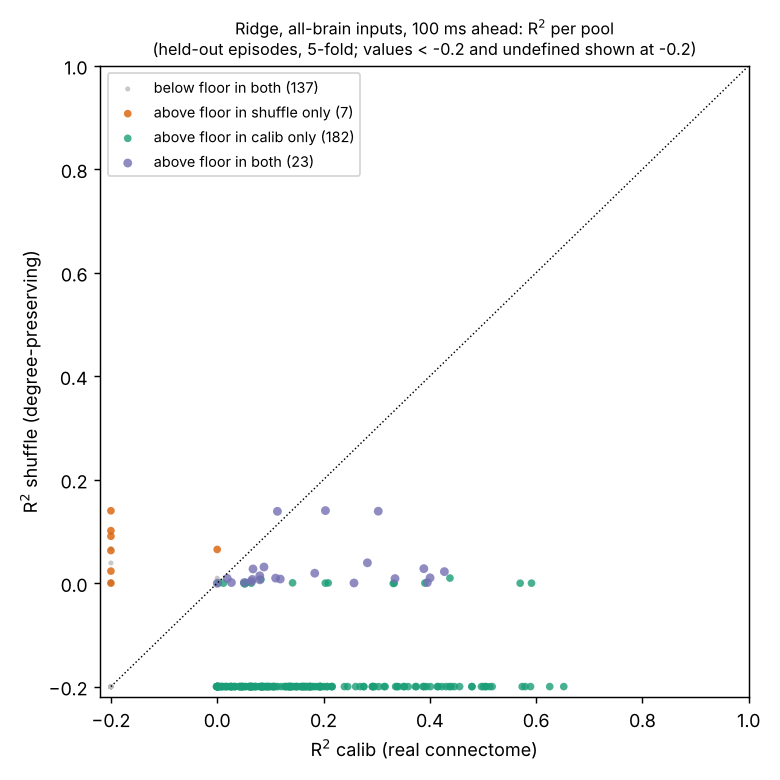
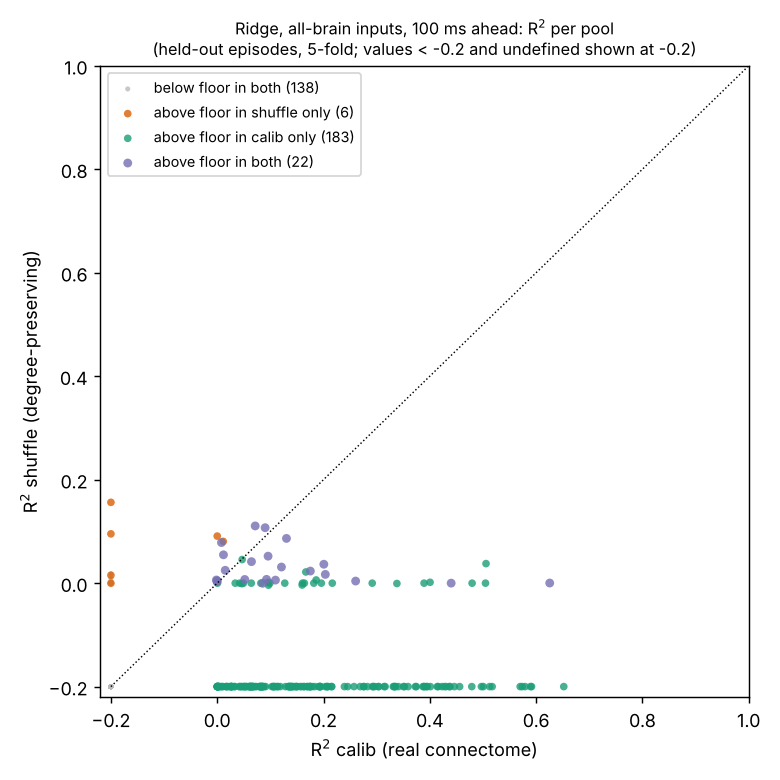
T5b: re-run shuffle controls on the fixed shuffle (panel, Day 5 dataset, ridge); docs
Behaviour panel: 10 shuffles re-run; real 4/9 and p-values unchanged; shuffle
hits 1/9 in 9, 2/9 in shuf7. Day 5: 210 shuffle episodes re-generated (old in
pre_shufflefix/); pools > 1 Hz^2 30 -> 28. Ridge: shuffle median R^2 0.017 ->
0.024, calib rows identical; shuffle >= calib in 8 of 49 paired pools (was 1/39).
Notes in week4_summary, day5_results, day1_behaviour_panel, README; new
progress/week5/day2_shuffle_fix.md. Figures regenerated.

Claude-Session: https://claude.ai/code/session_019wmqTXaSWtKfsxyxf7x168

diff --git a/progress/week5/day2_shuffle_fix.md b/progress/week5/day2_shuffle_fix.md
@@ -1,0 +1,129 @@
+# Week 5 Day 2: shuffle-control fix (JO mirror before the shuffle) and the re-run shuffle controls
+
+**Question:** the shuffled control had about twice as many connections as the real network (T5a, PR #13). After fixing the order of the JO mirror and the shuffle, do the Week 4 and Week 5 shuffle results change? Brief: T5b (Orchestrator). Code: PR #14 (branch `claude/project-thread-jkduez`, from main f1356ae).
+
+## The bug
+`cns_model(config='shuffle')` ran shuffle → `build_presyn` → `mirror_jo`. `mirror_jo` gives each right-JO neuron the mean output of its left-JO subtype, mapped onto contralateral homologs. After the shuffle, the left-JO columns point at random targets, so that mean is spread over most cell types: the right JO got about 22M weak extra outputs. This affected every `cns_model` shuffle control from Week 4 day 4 on (Day 5 dataset, ridge baseline, Week 5 behaviour panel). It mostly touches wind and sound, the JO words.
+
+## Built
+- **`sim/cns.py`**: new `presyn_mirror_shuffle` (the last three pipeline steps) and the kwarg `cns_model(..., shuffle_order='fixed' | 'legacy')`. The `SHUFFLE_ORDER` comment cites the bug and the numbers.
+  - **fixed (default):** mirror the real W first, then shuffle. The mirror runs on `build_presyn(W)[0]`, exactly the matrix calib mirrors. The original sensory rows are put back, the full matrix is shuffled, and `build_presyn` then runs on the shuffled matrix as before.
+  - **Why `build_presyn` stays after the shuffle:** this keeps its semantics unchanged. The presynaptic matrix `ps` still comes from the shuffled W's central → sensory rows, as in every earlier shuffle. `shuffle_W` keeps each entry's row, so each sensory row keeps its entry count (481,672 sensory-row entries in all).
+  - **legacy:** shuffle → presyn → mirror, the pre-fix order.
+  - **calib:** `build_presyn` → `mirror_jo`, unchanged.
+- **`tests/test_shuffle_order.py`** (CI, synthetic, no data or pyarrow). On a toy network with 40 left and 40 right JO afferents, the legacy order inflates nnz (13,910 vs 5,606 calib), while the fixed order stays within 5% (5,442). The test also checks:
+  - the calib path equals `build_presyn` then `mirror_jo`;
+  - an identity "shuffle" in the fixed order gives calib exactly;
+  - the mirror leaves no entries in sensory rows.
+- **Checks** (`results/w5/shuffle_fix/fix_check.log`; scripts `dump_model.py` and `cmp.py` are stored next to it):
+  - **Calib is bit-identical** to f1356ae: W, gap, presyn and apl, 17 arrays, dtype + shape + values.
+  - **`shuffle_order='legacy'` is bit-identical** to the old shuffle (nnz 46,833,061).
+  - The fixed shuffle's input, restricted to non-sensory rows, equals the calib W exactly. The mirrored right-JO output sum is the same as in calib (23.94 V; legacy 25.13).
+  - `pytest -q tests/`: 48 passed. `w4d1_torch_parity.py parity cns 0.1`: identical=True.
+
+| network | nnz (W after presyn + mirror) |
+|---|---|
+| calib | 24,519,583 |
+| shuffle seed 12345, legacy | 46,833,061 |
+| shuffle seed 12345, fixed | **24,444,089** (−0.31% vs calib) |
+| panel shuffles 1–10, legacy | 46,674,664 – 47,364,598 |
+| panel shuffles 1–10, fixed | 24,443,647 – 24,444,466 |
+
+The remaining −0.31% is the duplicate (row, column) pairs that `shuffle_W` merges (about 75k), as before.
+
+## Re-runs
+Old outputs were moved, not deleted:
+- `results/w5/panel/pre_shufflefix/` (calib files copied there too);
+- `results/w4/regression/day5/pre_shufflefix/` (210 shuffle npz + index/summary/variance CSVs);
+- `results/w4/regression/ridge/pre_shufflefix/`.
+
+Calib was not re-simulated, because it is unchanged (bit-identical model).
+
+### 1. Behaviour panel (10 shuffles × 13 conditions × 3 seeds)
+`results/w5/panel/` (`run.log`, `verify.log`, `shuffle_verify.json`, `scorecard.csv`, `summary.json`, `score.log`, `shufflefix_scorecard_compare.csv`, `shufflefix_trials_compare.csv`). `verify`: seed 12345 through the panel route reproduces `cns_model`'s shuffle (nnz 24,444,089), and the gap junctions are not shuffled.
+
+| pair | real | shuffles, old (AUROC range / passes) | shuffles, new | p, old → new |
+|---|---|---|---|---|
+| P1 sugar → MN9 | 0.728 | 0.497–0.500 | 0.497–0.500 | 0.091 → 0.091 |
+| P2 water → MN9 | 0.500 | 0.499–0.500 | 0.499–0.500 | 0.818 → 0.818 |
+| P5 looming → TTMn | 1.000 | 0.479–0.486 | **0.471–0.729** | 0.091 → 0.091 |
+| P7 MDN → hl | 0.574 | 0.499–0.516 | 0.495–0.508 | 0.091 → 0.091 |
+| P8 DNg100 → legs | 0.576 | 0.495–0.509 | 0.497–0.512 | 0.091 → 0.091 |
+| X1 wind → fl (not scored) | 0.531 | 0.492–0.520 | 0.489–0.550 | – |
+| P3 bitter ¬MN9 | pass | 10/10 | 10/10 | – |
+| P4 sugar+bitter < sugar | pass | 0/10 | 0/10 | – |
+| P6 GF off < looming | pass | 0/10 | **1/10** (shuf7) | – |
+| P9 dose monotonic | fail | 0/10 | 0/10 | – |
+| **hits** | **4/9** | **1/9 in each shuffle** | **1/9 in 9 shuffles, 2/9 in shuf7** | |
+
+- **shuf7:** in 2 of 3 seeds, looming makes the GF fire a single spike (mean GF rate 1.25 Hz in 0–0.4 s). TTMn fires a single spike too (1.25 Hz; mean over seeds 0.83 Hz), so P5 AUROC is 0.729 (best rank 11). With the GF silenced, TTMn falls to 0, so P6 "passes" (0 < 0.83). No other shuffle drives the GF. This is a weak chance path, not the real looming → GF response (real TTMn 277 Hz).
+- **Wind (X1):** the shuffled networks drive more motor neurons than before (mean active MNs 3.7 → 7.0; real 103). Other conditions change by ≤ 1 MN on average. No late activity (0.45–0.5 s) in any shuffle, before or after.
+- The real network's numbers did not change, since it was not re-run. All real-vs-shuffle p-values are unchanged.
+
+### 2. Day 5 dataset, shuffle (200 mixtures + 10 background-only)
+`results/w4/regression/day5/`: `summary.md`, `pool_variance.csv`, `index.csv` (420 rows: 210 calib unchanged, 210 shuffle new), `run_log.txt`, `shufflefix_run_chunk{1,2}.log`, `shufflefix_spikes_compare.csv`, `shufflefix_ttmn.txt`. Same specs and seeds, run as `0 210 shuffle`. A 2 h job limit stopped chunk 1 after ep132; it resumed and skipped the 133 valid files. `check 0 shuffle` re-runs ep000: identical=True. The calib rows of `index.csv` are identical to before (spike counts, 210/210). Stop conditions: none hit. Persist and burst flags are 0 in every shuffle episode, before and after.
+
+| shuffle, Day 5 | old | new | calib (unchanged) |
+|---|---|---|---|
+| pools > 1 Hz² (of 349) | 30 | **28** | 205 |
+| same, without looming episodes | 24 | 24 | 144 |
+| same, background-only episodes | 1 | 5 | 21 |
+| group × side > 1 Hz² (of 42) | 6 | 4 | 34 |
+| summed pool variance (Hz²) | 372 | 534 | 29,336 |
+| summed pool variance, background-only (Hz²) | 5.8 | 305.4 | 298.0 |
+| share of variance in wind / looming episodes | 54% / 27% | 60% / 28% | 58% / 55% |
+| wind words where DNge027 fires (of 102) | 0 | 10 | – |
+
+- **Total spikes per episode barely change.** Wind or sound episodes change by −2.5% to +1.5% (median +0.01%). Other mixtures change by −0.4% to +0.6%, background-only episodes by under 0.1%.
+- **But the pools that vary are a different set.** Only 1 of the 28 new floor pools was among the 30 old ones. The cause is not the JO alone. The fixed shuffle permutes a different entry list: 25,001,255 entries, the mirrored network, against 24,891,947 before. So with the same seed it is a new random draw of the whole network, not the old one with a corrected JO.
+- **The left TTMn fires tonically in the new shuffle** at about 2 Hz, in mixtures (1.99 Hz) and in background-only episodes (2.16 Hz) alike. Before the fix it was silent. It is the top variance pool (196 Hz²), and it explains most of the background-only variance jump (5.8 → 305 Hz²).
+
+### 3. Ridge baseline, shuffle
+`results/w4/regression/ridge/` (`summary.md`, `r2_per_pool.csv`, `log.txt`, `shufflefix_compare.txt`, `shufflefix_run_stdout.log`). Same settings and seed. Both cfgs were re-fitted. **The calib rows are unchanged:** all 8 calib R² columns and all 4 `pred_calib_*.npz` files are identical to before.
+
+| ridge, all-brain inputs, fine pools | old | new | calib (unchanged) |
+|---|---|---|---|
+| shuffle floor pools, median R² (all episodes) | 30, 0.017 | **28, 0.024** | 205, 0.138 |
+| shuffle floor pools, median R² (no looming) | 24, 0.009 | 24, 0.014 | 144, 0.065 |
+| shuffle pools with R² > 0.1 (all / no looming) | 5 / 4 | 3 / 2 | 120 / 45 |
+| DN-only inputs, shuffle median R² | 0.013 | 0.014 | 0.127 |
+| paired, calib floor pools with shuffle R² defined (all episodes) | 39 pools; 0.119 vs 0.003; calib higher in 38 | **49 pools; 0.110 vs 0.002; calib higher in 41 (shuffle ≥ calib in 8)** | |
+| paired, no-looming episodes | 17 pools; 0.110 vs 0.005; calib higher in 16 | 30 pools; 0.067 vs −0.000; calib higher in 23 (shuffle ≥ calib in 7) | |
+| pools above the floor in both cfgs, median R² calib / shuffle | 23; 0.113 / 0.010 | 22; 0.091 / 0.020 | |
+| time-shuffle / mean controls, shuffle | −0.000 | −0.000 (time 0.000) | |
+
+**Flagged (H3 trigger):** the number of paired pools where the shuffle matches or beats calib rose from 1 to 8 (all episodes) and from 1 to 7 (no looming). That is more than 5. Details:
+- All 8 are pools that calib predicts poorly: calib R² ≤ 0.09, mostly abdominal MNad pools. Their shuffle R² is 0.003–0.111.
+- Only 5 pools are paired in both the old and the new run. Of those, 1 changed winner (L|ad|MNad63). The others are newly paired, because the new shuffle drives different pools.
+- The median gap on the paired pools is unchanged (0.110 vs 0.002).
+
+## Hypotheses
+- **H1 (shuffle nnz ≈ calib, calib bit-identical): holds.**
+  - Calib W, gap, presyn and apl are bit-identical.
+  - Fixed shuffle nnz is −0.31% vs calib (all 11 seeds within −0.31% ± 0.01%).
+  - Legacy reproduces the old W exactly.
+- **H2 (panel conclusion unchanged; shuffle hits stay 1/9): partly holds.**
+  - The conclusion is unchanged: real 4/9, all real-vs-shuffle p-values the same, no shuffle reaches AUROC 0.9.
+  - 9 of 10 shuffles stay at 1/9. **shuf7 scores 2/9:** P6 passes on a single-spike GF → TTMn chance path, and its P5 AUROC is 0.729.
+- **H3 (Day 5 changes mainly in wind/sound; pools far below 205; ridge gap survives): partly holds.**
+  - **The gap survives:** 28 vs 205 variance-carrying pools, and shuffle median R² 0.024 vs 0.138 (below 0.05).
+  - **The changes are not confined to wind/sound.** Total spikes change slightly more in JO episodes, but the set of varying pools is almost entirely new. The fixed shuffle is a different random realisation of the whole network, and in it the left TTMn fires tonically.
+  - **The paired comparison flips for more than 5 pools** (shuffle ≥ calib in 8 of 49, was 1 of 39), all of them pools with calib R² ≤ 0.09. See the flag above.
+
+## Reading
+- The real-vs-shuffle separation of Week 4 and Week 5 does not depend on the inflated right-JO mirror: every headline gap survives the fix.
+- The old and new shuffles differ as two random draws do, not only in the JO. Seed-to-seed variation of a single shuffle is therefore as large as the fix's effect on the Day 5 and ridge numbers. The panel has 10 shuffles; the Day 5 dataset and the ridge baseline still have one (seed 12345).
+- One shuffle (seed 12345, fixed) has a tonically firing left TTMn. Tonic MN activity in a control inflates its pool variance without carrying stimulus information. Its ridge R² stays near 0.
+
+## Not changed, flagged
+- **`scripts/w3d1_common.presyn_model(config='shuffle', mirror=True)`**, used by the Week 3 loop (`loop/run_loop.py`), has the same order: shuffle → presyn → mirror. The README row "Full loop … 1 shuffled" therefore comes from an inflated shuffle. It was not fixed or re-run here, because the brief limits the code change to `sim/cns.py`.
+- The docstring of `scripts/w5_behaviour_panel.py` still describes the shuffle as "before presynaptic modulation and the JO mirror". It is out of scope for this PR (only `sim/cns.py` may change). The seed route itself is unchanged, and `verify` confirms it.
+
+## Figures
+`results/figures/w5_behaviour_panel.png` and `results/figures/w4_ridge_r2_calib_vs_shuffle.png` were regenerated for the fixed shuffle. The old versions are in the `pre_shufflefix/` folders (panel figure: `results/w5/panel/pre_shufflefix/`; ridge: `results/w4/regression/ridge/pre_shufflefix/r2_calib_vs_shuffle.png`).
+
+## Assumptions and unverified
+- "Shuffle nnz within 1% of calib" is read as the final W (after presyn and mirror): −0.31%.
+- Not checked: which neurons drive the tonic left TTMn in the seed-12345 fixed shuffle, and whether other seeds show it. The panel shuffles 1–10 have no `none`-condition activity (0 spikes), but that protocol has no background drive.
+- The 2/9 for shuf7 rests on single spikes; with 3 seeds it is not robust either way.
+- The Day 5 dataset and the ridge baseline use one shuffle draw. A second seed would separate the effect of the fix from draw-to-draw variation. Not done, because it is outside the brief.

diff --git a/progress/week4/week4_summary.md b/progress/week4/week4_summary.md
@@ -4,6 +4,8 @@
 
 **Where it stands:** the full-CNS model runs, is calibrated against the known VNC circuits we could test, and has produced a 420-run regression dataset. A first ridge baseline is in: the real connectome is predictable from brain activity well above the shuffled one, but a large part of that comes from looming episodes. The decoder work proper is Week 5.
 
+> **Shuffle-control fix (2026-11-24, [week5/day2_shuffle_fix.md](../week5/day2_shuffle_fix.md)).** The shuffle control here gave the right Johnston's organ (JO) about 22M extra weak outputs (nnz 46.8M vs 24.5M calib), because the JO mirror ran after the shuffle. It is fixed (mirror, then shuffle; PR #14). The shuffle half of the dataset and the shuffle ridge fit were re-run. Calib is unchanged. Old → new, shuffle: pools > 1 Hz² 30 → 28 (no looming 24 → 24); summed variance 372 → 534 Hz²; ridge median R² 0.017 → 0.024 (R² > 0.1: 5 → 3). Paired with calib on the calib floor pools: 39 → 49 pools, 0.119 vs 0.003 → 0.110 vs 0.002, shuffle ≥ calib in 1 → 8 pools (all with calib R² ≤ 0.09). The real-vs-shuffle gap holds. The numbers below are the pre-fix ones.
+
 Every number below comes from the day report linked next to it, or from the results file it names.
 
 ## 1. What was built
@@ -33,6 +35,8 @@ The DN validation panel (`results/w4/sci/w4d3_panel_summary.md`) passes for GF, 
 - **Known artifacts.** AL relaxation bursts (52 eligible events in calib mixtures), and post-wind loop tails up to 0.51 s (ep155). Neither tripped a stop condition.
 
 ## 3. Ridge baseline (`results/w4/regression/ridge/summary.md` and `log.txt`, on the shared mount)
+
+> **Shuffle-control fix (2026-11-24):** the shuffle rows of this table were re-fitted on the fixed shuffle. all brain, all 200: 30 pools, 0.017 → 28 pools, 0.024, R² > 0.1 5 → 3. No looming: 24 pools, 0.009 → 24, 0.014. DNs only: 0.013 → 0.014. Paired: shuffle ≥ calib in 1/39 → 8/49 pools. Calib rows are unchanged (identical predictions). The old outputs are in `ridge/pre_shufflefix/`. The figure copy `results/figures/w4_ridge_r2_calib_vs_shuffle.png` now shows the fixed shuffle. Details: [week5/day2_shuffle_fix.md](../week5/day2_shuffle_fix.md).
 **Setup.** Brain inputs (brain_mask neurons with ≥ 20 spikes in the training episodes, z-scored, 200 principal components fitted on the training episodes only) at lags 0–100 ms in 10 ms bins (11 lags, 2,200 features) → the 349 pool rates and 42 group × side rates at t + 100 ms. First 100 ms of each episode discarded. 5-fold cross-validation by episode, stratified by looming and wind; ridge α per target from an inner 4-fold CV on the training episodes. R² on held-out bins pooled over folds, reported for pools above the Day 5 floor of each cfg. Controls: time-shuffled targets (circular shift ≥ 300 ms per episode) and the training-fold mean. Reproducible: re-running fold 0 (`--check`, `log_check.txt`) gives predictions identical to the saved ones, and two full runs gave a byte-identical `r2_per_pool.csv`.
 
 | cfg | inputs | episodes | pools above floor | median R² | IQR | R² > 0.1 | coarse: groups, median R² |

diff --git a/README.md b/README.md
@@ -12,7 +12,7 @@ This is not a fly that talks, and nothing here decodes intentions. Every neuron 
 - [x] **Week 1:** NumPy LIF matches the Shiu et al. Brian2 model on FlyWire (sugar → MN9 feeding, bitter suppression). [Report](docs/week1_report.html), [notebook 01](notebooks/01_shiu_validation.ipynb)
 - [x] **Week 2:** MaleCNS port; the persistent attractor fixed by modelling eLN–PN coupling as gap junctions; 17-word readout; shuffled-connectome control; Connectome Explorer. [Summary](progress/week2/week2_summary.md), [notebook 02](notebooks/02_translator.ipynb)
 - [x] **Week 3:** closed loop between the fly brain and an LLM: words in, a sentence to the LLM, the chosen action played back as a hearing-neuron spike code and read back from descending neurons. [Report](docs/week3_report.html), [notebook 03](notebooks/03_gpt_loop.ipynb), [video](results/figures/loop_demo.mp4)
-- [x] **Week 4:** full CNS (brain + VNC, 165,122 neurons) with a PyTorch simulator that matches the NumPy one spike-for-spike; VNC calibration (giant-fiber gap junctions, glutamatergic motor neurons, two sign fixes, two loop gains); a 420-run regression dataset (200 stimulus mixtures + 10 background-only, real and shuffled). First ridge baseline, brain → 349 motor pools 100 ms ahead on held-out episodes: median R² 0.138 on the 205 pools that vary with the real wiring (0.065 on the 144 that still vary without looming episodes), 0.017 on the 30 that vary with the shuffled wiring; time-shuffled targets give 0. [Summary](progress/week4/week4_summary.md), [plan](progress/week4/week4_plan.md)
+- [x] **Week 4:** full CNS (brain + VNC, 165,122 neurons) with a PyTorch simulator that matches the NumPy one spike-for-spike; VNC calibration (giant-fiber gap junctions, glutamatergic motor neurons, two sign fixes, two loop gains); a 420-run regression dataset (200 stimulus mixtures + 10 background-only, real and shuffled). First ridge baseline, brain → 349 motor pools 100 ms ahead on held-out episodes: median R² 0.138 on the 205 pools that vary with the real wiring (0.065 on the 144 that still vary without looming episodes), 0.024 on the 28 that vary with the shuffled wiring (0.017 on 30 before the [shuffle-control fix](progress/week5/day2_shuffle_fix.md)); time-shuffled targets give 0. [Summary](progress/week4/week4_summary.md), [plan](progress/week4/week4_plan.md)
 - [ ] **Week 5 (next):** motor-pool decoders on the Week 4 dataset (ridge variants, DN-only and random-subset inputs, a nonlinear model only if ridge leaves structure).
 
 ## Headline numbers (Week 3, MaleCNS)

diff --git a/progress/week5/day1_behaviour_panel.md b/progress/week5/day1_behaviour_panel.md
@@ -2,6 +2,8 @@
 
 **Question:** for each known stimulus → behaviour pair, does the full-CNS model (`cns_model('cns', 'calib', **W4_CALIB)`) put the expected output neurons near the top of all motor outputs, and more than shuffled wiring does? Nothing is trained or tuned. Brief: T5a (Orchestrator). Model: main c49cbb7.
 
+> **Shuffle-control fix (2026-11-24, [day2_shuffle_fix.md](day2_shuffle_fix.md)).** The "Finding" below (shuffled W with 46.7–47.4M nonzeros) is fixed in PR #14: the JO mirror now runs before the shuffle, and shuffle nnz is 24.44M (calib 24.52M). The 10 shuffles were re-run. The old outputs are in `results/w5/panel/pre_shufflefix/`. Old → new: real 4/9 and every p-value unchanged. Shuffle hits 1/9 in each of 10 → 1/9 in 9, 2/9 in shuf7 (P6 passes via a single GF/TTMn spike; P5 AUROC 0.729). Shuffle AUROC range for P5 0.479–0.486 → 0.471–0.729, X1 0.492–0.520 → 0.489–0.550. The tables below are the pre-fix ones. `results/figures/w5_behaviour_panel.png` now shows the fixed shuffles; the old figure is in `pre_shufflefix/`.
+
 All numbers come from `results/w5/panel/` (`scorecard.csv`, `summary.json`, `trials_<net>.csv`, `rates_<net>.csv`, `shuffle_verify.json`, `run.log`, `score.log`), written by `scripts/w5_behaviour_panel.py`.
 
 ## Built

diff --git a/progress/week4/day5_results.md b/progress/week4/day5_results.md
@@ -4,6 +4,8 @@
 
 **Model:** main eb24389 (PR #8), so `W4_CALIB` includes `LOOP_GAIN`. All numbers come from `results/w4/regression/day5/summary.md` (written by `scripts/w4d5_dataset_summary.py`) and from `run_log.txt` there.
 
+> **Shuffle-control fix (2026-11-24, [week5/day2_shuffle_fix.md](../week5/day2_shuffle_fix.md)).** The 210 shuffle episodes were re-generated with the fixed shuffle (JO mirror before the shuffle; the old control gave the right JO about 22M extra weak outputs). Same specs and seeds. The old files are in `pre_shufflefix/`. Calib is unchanged. Old → new, shuffle: pools > 1 Hz² 30 → 28 (no looming 24 → 24, background-only 1 → 5); summed variance 372 → 534 Hz² (background-only 5.8 → 305 Hz², from a tonically firing left TTMn in this shuffle draw). Only 1 of the 28 varying pools was among the old 30, because the fix makes a new random draw. Stop conditions: none. The shuffle numbers below are the pre-fix ones.
+
 ## Built
 - **`scripts/w4d5_dataset.py`** (PR #8, unchanged). Run as `0 210 calib` and `0 210 shuffle`, in resumable chunks, one process at a time.
   - **Calib:** k 0–99, then k 100–209.
